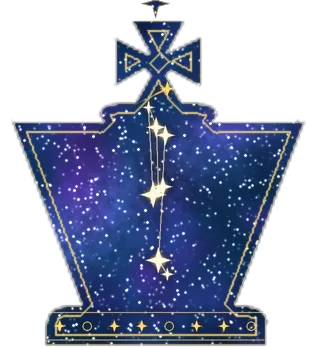
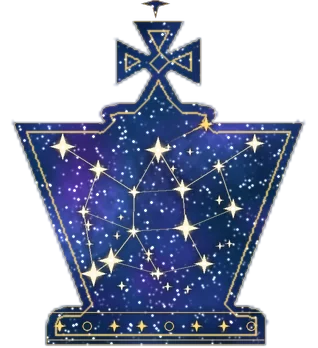
v0.6.9: 별자리 세트 킹을 영역 전체를 채우는 헤르쿨레스 별자리로 교체(행별 실루엣 폭에 맞춤, 잔별 추가)
Claude-Session: https://claude.ai/code/session_01BruYFJ8h7Fg1t3GE7dE9QA

diff --git a/scripts/build-skin-pieces.py b/scripts/build-skin-pieces.py
@@ -453,7 +453,8 @@ def decor_coral(sk, key, color, ink, ext, comps):
 
 
 CONST = {
-    "K": ([(0.12, 0.08), (0.42, 0.18), (0.30, 0.52), (0.5, 0.5), (0.7, 0.48), (0.52, 0.85), (0.88, 0.92), (0.8, 0.22)], [(0, 1), (1, 3), (3, 2), (2, 0), (3, 4), (4, 5), (4, 7), (5, 6)]),           # 오리온
+    "K": ([(0.38, 0.40), (0.62, 0.38), (0.66, 0.62), (0.36, 0.64), (0.22, 0.26), (0.08, 0.12), (0.78, 0.24), (0.92, 0.10), (0.50, 0.14), (0.10, 0.52), (0.90, 0.50), (0.20, 0.82), (0.50, 0.90), (0.80, 0.84), (0.06, 0.90)],
+          [(0, 1), (1, 2), (2, 3), (3, 0), (0, 4), (4, 5), (1, 6), (6, 7), (0, 8), (8, 1), (3, 9), (2, 10), (3, 11), (11, 14), (2, 13), (13, 12), (3, 12), (9, 14), (11, 12), (4, 9), (6, 10)]),   # 헤르쿨레스: 영역 전체에 퍼진 촘촘한 별자리
     "Q": ([(0.06, 0.25), (0.28, 0.75), (0.5, 0.35), (0.72, 0.8), (0.94, 0.3)], [(0, 1), (1, 2), (2, 3), (3, 4)]),                                                                   # 카시오페이아 W
     "R": ([(0.05, 0.3), (0.28, 0.4), (0.5, 0.5), (0.7, 0.55), (0.78, 0.9), (0.98, 0.75), (0.95, 0.3)], [(0, 1), (1, 2), (2, 3), (3, 4), (4, 5), (5, 6), (6, 3)]),                       # 북두칠성
     "B": ([(0.5, 0.05), (0.5, 0.45), (0.5, 0.95), (0.12, 0.38), (0.88, 0.38), (0.3, 0.7)], [(0, 1), (1, 2), (3, 1), (1, 4), (1, 5)]),                                                   # 백조자리(십자)
@@ -485,11 +486,15 @@ def decor_stars(sk, key, color, ink, ext, comps):
     w = color == "w"; rng = np.random.default_rng(55 + ord(key) * 17)
     line = rgba("#3B2F9A", 225) if w else rgba("#FFF0C4", 215); node = rgba("#2A1F7E") if w else rgba("#FFF6D8"); gold = rgba("#B88620") if w else rgba("#FFD97A")
     head, jewels = head_and_jewels(comps, key)
-    ys = sk.top + (sk.bottom - sk.top) * (0.20 if key != "P" else 0.47); yb = sk.base_top - 3 * S
+    ys = sk.top + (sk.bottom - sk.top) * (0.31 if key == "K" else 0.20 if key != "P" else 0.47); yb = sk.base_top - 3 * S
     pts, edges = CONST[key]
     ya, yz = ys + 2 * S, yb - 3 * S; ym = (ya + yz) / 2
     ax, bx = ext.span(ym); span_w = (min(ext.span(y)[1] for y in (ya, ym, yz)) - max(ext.span(y)[0] for y in (ya, ym, yz))) * 0.78
     cx0 = (ax + bx) / 2.0; P = [(cx0 + (px - 0.5) * span_w, ya + py * (yz - ya)) for px, py in pts]
+    if key == "K":   # 킹은 행마다 실루엣 폭에 맞춰 영역 전체를 채운다 + 배경 잔별
+        P = [(ext.at(ya + py * (yz - ya), 0.08 + 0.84 * px), ya + py * (yz - ya)) for px, py in pts]
+        for _ in range(16):
+            yy_ = rng.uniform(ya, yz); star4(ink, ext.at(yy_, rng.uniform(0.07, 0.93)), yy_, rng.uniform(0.9, 1.6) * S, node, 0.3)
     for a_, b_ in edges: ink.line([P[a_], P[b_]], line, 1.2)
     for i, (x, y) in enumerate(P): star4(ink, x, y, (2.2 + (i % 3) * 1.1) * S, node, 0.3); ink.ellipse(x, y, 0.5 * S, 0.5 * S, fill=rgba("#FFFFFF") if not w else rgba("#FFFFFF", 200))
     ex, ey, er = emblem_pos(sk, key, ext, head); r = er * (0.7 if head is not None else 0.85)
